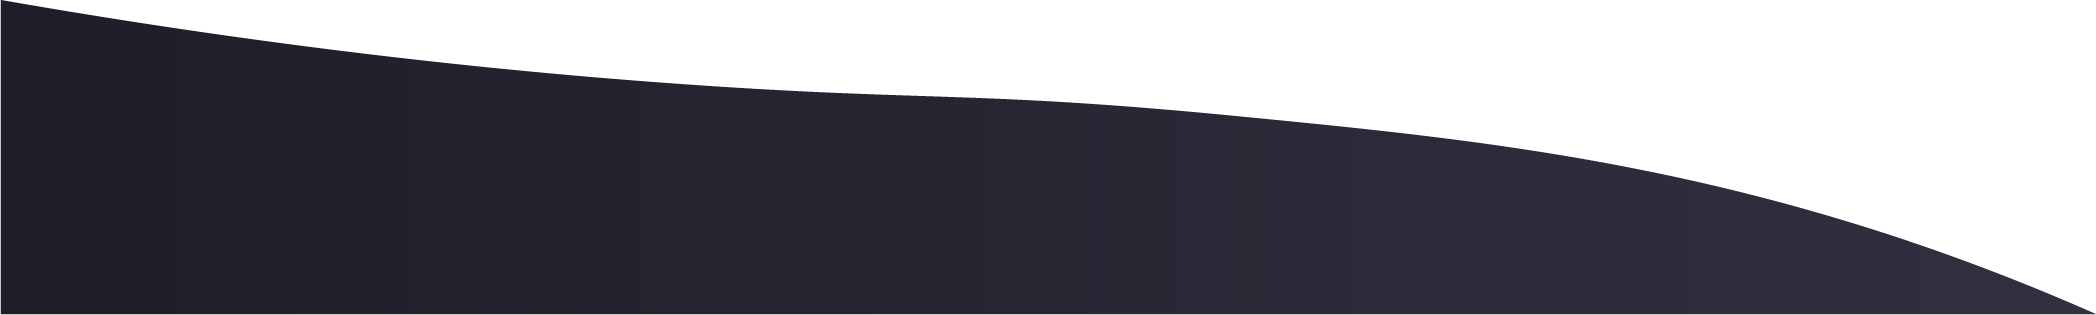
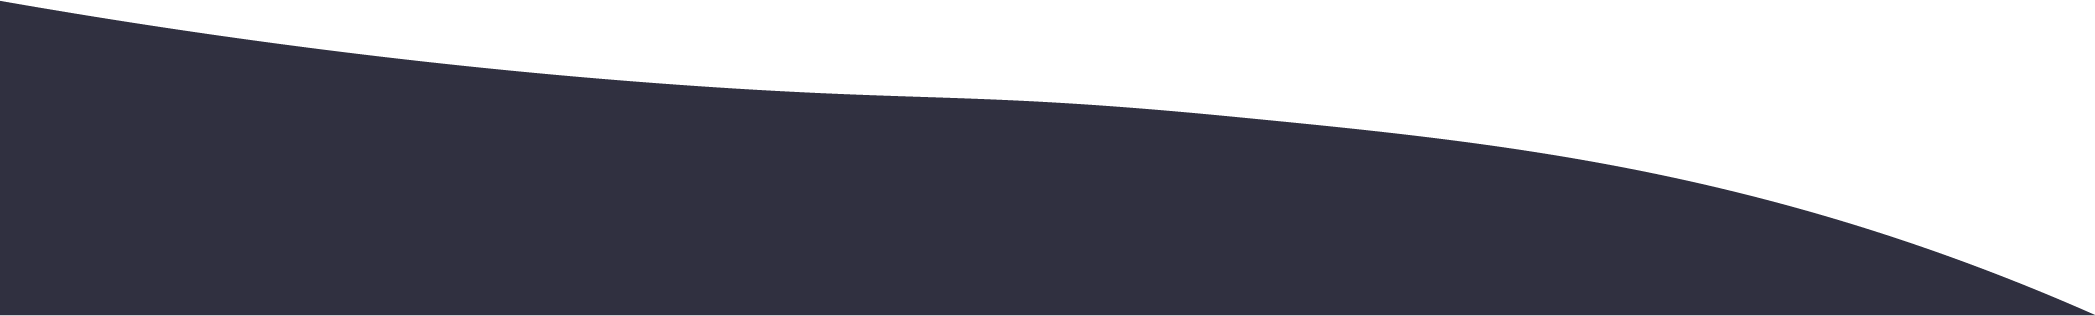
responsive styles

diff --git a/client/src/components/Home/components/Features/index.js b/client/src/components/Home/components/Features/index.js
@@ -1,0 +1,35 @@
+import React, { Component } from 'react';
+import './styles.css';
+
+import streak from '../../../../assets/features/Streak.svg';
+import graph from '../../../../assets/features/graphFeature.png';
+
+const SingleFeature = ({ title, description, image }) => {
+    return (
+        <div className="singleFeature">
+            <div>
+                <h1> { title } </h1>
+                <p> { description } </p>
+            </div>
+            <img src={ image } alt="feature descriptive image" />
+        </div>
+        )
+}
+
+class Features extends Component {
+    render() {
+        return (<div className="features">
+                    <SingleFeature title="Feature 1" 
+                                   description="Lorem ipsum dolor sit amet, consectetur adipiscing elit. Ultrices sed arcu lorem scelerisque dui netus. Rutrum condimentum a nisl ipsum mauris, netus lorem scelerisque adipiscing."
+                                   image= { graph } />
+                    <SingleFeature title="Feature 2" 
+                                   description="Lorem ipsum dolor sit amet, consectetur adipiscing elit. Ultrices sed arcu lorem scelerisque dui netus. Rutrum condimentum a nisl ipsum mauris, netus lorem scelerisque adipiscing."
+                                   image="" />
+                    <SingleFeature title="Feature 3" 
+                                   description="Lorem ipsum dolor sit amet, consectetur adipiscing elit. Ultrices sed arcu lorem scelerisque dui netus. Rutrum condimentum a nisl ipsum mauris, netus lorem scelerisque adipiscing."
+                                   image= { streak } />
+                </div>)
+    }
+}
+
+export default Features;

diff --git a/client/src/components/Home/components/Features/styles.css b/client/src/components/Home/components/Features/styles.css
@@ -1,0 +1,59 @@
+@import '../../../../commonStyles.css';
+
+.features {
+    background: linear-gradient(180deg, #303040 0%, #1E1E28 100%);
+    /* background: url("./images/bottomCurve.png") bottom right no-repeat, linear-gradient(180deg, #303040 0%, #1E1E28 100%); */
+
+}
+
+.singleFeature {
+    display: flex;
+    flex-direction: row;
+    align-items: center;
+    justify-content: space-between;
+    padding: 40px 100px 10px;
+}
+
+.singleFeature:nth-child(2n) {
+    flex-direction: row-reverse;
+}
+
+.singleFeature img {
+    margin: 0 20px;
+    height: 200px;
+}
+
+.singleFeature div {
+    margin: 0 20px;
+    width: 60%;
+}
+
+.singleFeature h1 {
+    margin-bottom: 30px;
+}
+
+.singleFeature p {
+    line-height: 26px;
+}
+
+.singleFeature h1, .singleFeature p {
+    color: #f2f2f2;
+}
+
+/* mobile */
+@media only screen and (max-width: 950px) {
+    .singleFeature {
+        flex-direction: column-reverse;
+        padding: 10px 0px 10px 20px;
+        margin-bottom: 40px;
+    }
+
+    .singleFeature:nth-child(2n) {
+        flex-direction: column-reverse;
+    }
+
+
+    .singleFeature div {
+        text-align: center;
+    }
+}

diff --git a/client/src/components/Home/index.js b/client/src/components/Home/index.js
@@ -3,6 +3,7 @@ import './styles.css'
 import HomeWrapper from '../HomeWrapper';
 import Banner from './components/Banner'
 import InfoBlurb from './components/InfoBlurb';
+import Features from './components/Features';
 
 class Home extends Component {
     render() {
@@ -17,6 +18,7 @@ class Home extends Component {
                     <button>JOIN THE WAITLIST</button>
                 </div>
                 <InfoBlurb />
+                <Features />
             </HomeWrapper>)
     }
 }
